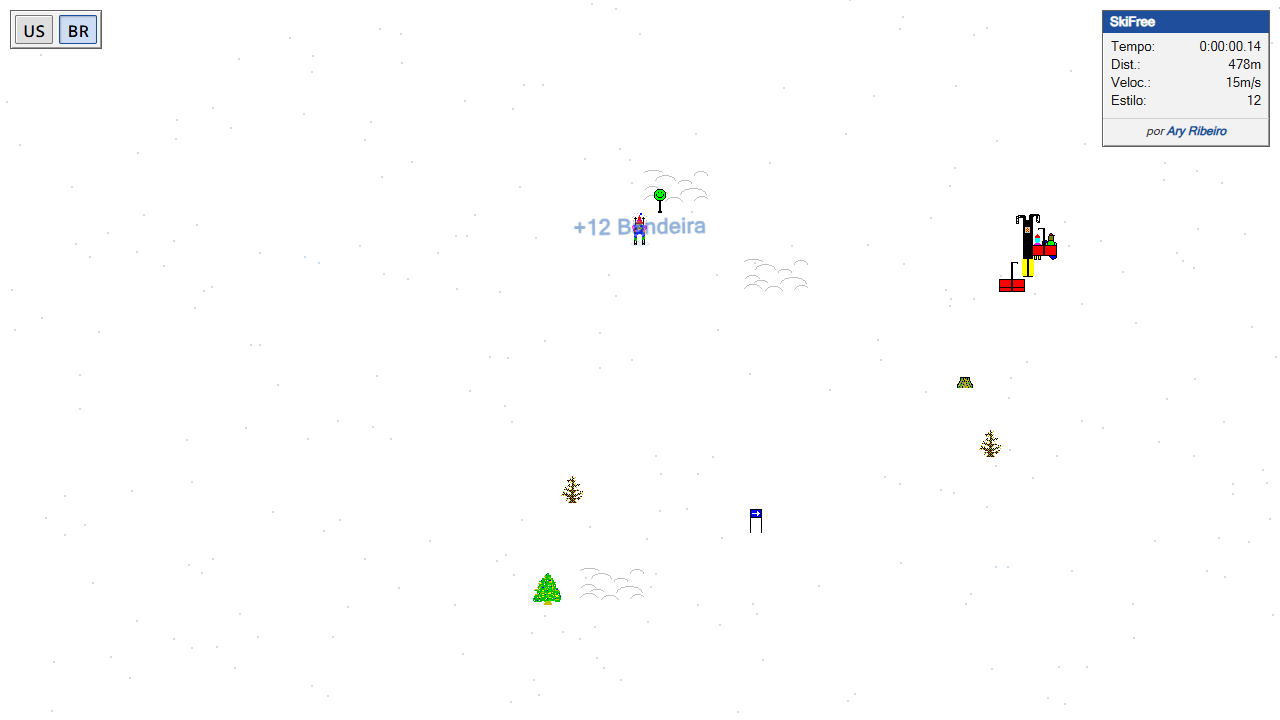
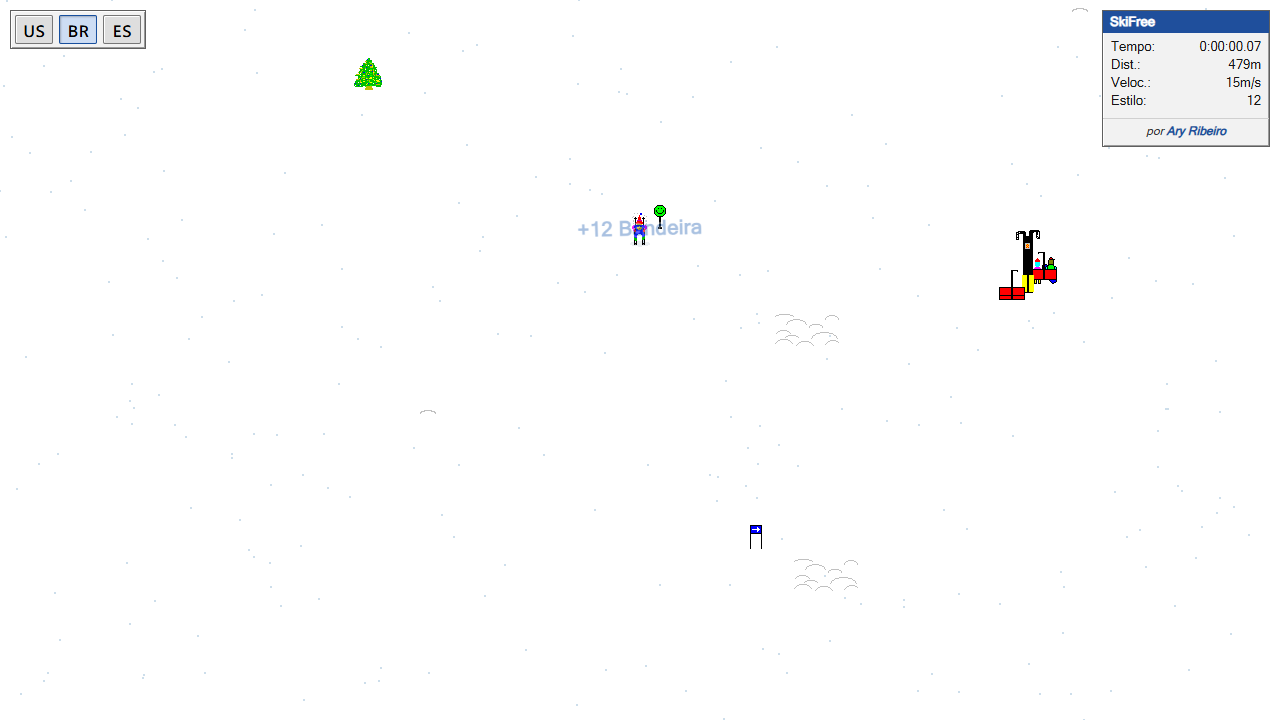
Add Spanish (es-ES): flag, translations, country/browser detection, sign text fit

diff --git a/src/main.js b/src/main.js
@@ -83,7 +83,11 @@ const RIVAL_KIND = "rival-player";
 const RIVAL_COUNT = 3;
 const LANGUAGE_STORAGE_KEY = "skifree-language";
 const DEFAULT_LANGUAGE = "en-US";
-const SUPPORTED_LANGUAGES = new Set(["pt-BR", "en-US"]);
+const SUPPORTED_LANGUAGES = new Set(["pt-BR", "en-US", "es-ES"]);
+const SPANISH_COUNTRIES = new Set([
+  "ES", "MX", "AR", "CO", "CL", "PE", "VE", "EC", "GT", "CU", "BO", "DO", "HN",
+  "PY", "SV", "NI", "CR", "PA", "UY", "GQ", "PR"
+]);
 
 const TRANSLATIONS = Object.freeze({
   "pt-BR": {
@@ -169,6 +173,48 @@ const TRANSLATIONS = Object.freeze({
       treeSlalom: ["TREE", "SLALOM"],
       freestyle: ["FREE", "STYLE"]
     }
+  },
+  "es-ES": {
+    languageSwitcherAria: "Seleccionar idioma",
+    hudAria: "Estado de SkiFree",
+    resultsAria: "Récords",
+    timeLabel: "Tiempo:",
+    distanceLabel: "Dist.:",
+    speedLabel: "Veloc.:",
+    styleLabel: "Estilo:",
+    paused: "Pausado",
+    records: "Récords",
+    resultHint: "Toca la pantalla o pulsa Enter para continuar",
+    loading: "Cargando",
+    loadFailed: "Error al cargar",
+    credit: "por",
+    style: "estilo",
+    flag: "Puerta",
+    points: "{value} estilo",
+    yourResult: "¡tu resultado!",
+    tryAgain: "¡inténtalo de nuevo!",
+    courseRace: "Carrera",
+    courseFreestyle: "Estilo libre",
+    courseTreeSlalom: "Eslalon entre árboles",
+    courseStarted: "Prueba iniciada: {mode}",
+    courseFinishedStyle: "Prueba completada — {mode}: {value} estilo",
+    courseFinishedTime: "Prueba completada — {mode}: {value}",
+    resultsTitle: "SkiFree - Resultados de {mode}",
+    yetiCaught: "El Yeti te atrapó",
+    yetiTitle: "SkiFree - El Yeti te atrapó",
+    pausedTitle: "Ski en pausa — pulsa F3 para continuar",
+    rivalNames: ["ZorroNieve", "Mika", "ByteHielo", "AsAlpino"],
+    signs: {
+      helpMouse: ["RATÓN/TOQUE", "MUEVE PARA", "GIRAR"],
+      helpKeys: ["A/D, FLECHAS", "O NUMPAD", "PARA GIRAR"],
+      startLeft: ["← SALIDA"],
+      startRight: ["SALIDA →"],
+      finishLeft: ["← META"],
+      finishRight: ["META →"],
+      race: ["CARRERA"],
+      treeSlalom: ["ESLALON", "ÁRBOLES"],
+      freestyle: ["ESTILO", "LIBRE"]
+    }
   }
 });
 
@@ -190,6 +236,20 @@ function storedLanguage() {
   }
 }
 
+function browserSuggestedLanguage() {
+  if (browserSuggestsBrazil()) return "pt-BR";
+  const languages = navigator.languages?.length ? navigator.languages : [navigator.language];
+  if (languages.some((language) => language?.toLowerCase().startsWith("es"))) return "es-ES";
+  return DEFAULT_LANGUAGE;
+}
+
+function languageForCountry(country) {
+  const code = country.toUpperCase();
+  if (code === "BR") return "pt-BR";
+  if (SPANISH_COUNTRIES.has(code)) return "es-ES";
+  return DEFAULT_LANGUAGE;
+}
+
 function browserSuggestsBrazil() {
   const languages = navigator.languages?.length ? navigator.languages : [navigator.language];
   if (languages.some((language) => language?.toLowerCase() === "pt-br")) return true;
@@ -207,7 +267,7 @@ async function detectInitialLanguage() {
   const selected = storedLanguage();
   if (selected) return selected;
   if (["localhost", "127.0.0.1", "::1"].includes(window.location.hostname)) {
-    return browserSuggestsBrazil() ? "pt-BR" : "en-US";
+    return browserSuggestedLanguage();
   }
 
   const controller = new AbortController();
@@ -219,14 +279,14 @@ async function detectInitialLanguage() {
     });
     if (response.ok && response.headers.get("content-type")?.includes("application/json")) {
       const { country } = await response.json();
-      if (country) return country.toUpperCase() === "BR" ? "pt-BR" : "en-US";
+      if (country) return languageForCountry(country);
     }
   } catch {
     // Local development has no edge country signal; browser hints are the fallback.
   } finally {
     window.clearTimeout(timeout);
   }
-  return browserSuggestsBrazil() ? "pt-BR" : "en-US";
+  return browserSuggestedLanguage();
 }
 
 const COURSE_LANES = Object.freeze({
@@ -2107,7 +2167,14 @@ class SkiFreeGame {
     context.lineWidth = 1;
     if (!isHelp) context.strokeRect(0.5, 0.5, width - 1, panelHeight - 1);
     context.fillStyle = "#174f9e";
-    context.font = `bold ${isHelp ? 7 : lines.length > 1 ? 7 : 8}px Arial`;
+    const baseFontSize = isHelp ? 7 : lines.length > 1 ? 7 : 8;
+    const maxLineWidth = width - (isHelp ? 2 : 6);
+    let fontSize = baseFontSize;
+    context.font = `bold ${fontSize}px Arial`;
+    while (fontSize > 5 && lines.some((line) => context.measureText(line).width > maxLineWidth)) {
+      fontSize -= 0.5;
+      context.font = `bold ${fontSize}px Arial`;
+    }
     context.textAlign = "center";
     context.textBaseline = "middle";
     const lineHeight = isHelp ? 9 : 8;

diff --git a/index.html b/index.html
@@ -18,6 +18,9 @@
         <button type="button" data-language="pt-BR" aria-label="Português (Brasil)" title="Português (Brasil)">
           <span aria-hidden="true">🇧🇷</span>
         </button>
+        <button type="button" data-language="es-ES" aria-label="Español (España)" title="Español (España)">
+          <span aria-hidden="true">🇪🇸</span>
+        </button>
       </nav>
       <section id="hud" aria-label="Status do SkiFree">
         <div class="hud-title">SkiFree</div>

diff --git a/README.md b/README.md
@@ -8,7 +8,7 @@ geração de objetos, os controles e os comportamentos de colisão recuperados d
 `SKI.EXE`. A renderização continua ortográfica e fiel ao pixel, com o Three.js
 cuidando da cena.
 
-Bilíngue (português do Brasil e inglês): o idioma inicial é sugerido pelo país
+Trilíngue (português do Brasil, inglês e espanhol): o idioma inicial é sugerido pelo país
 do visitante e pode ser trocado a qualquer momento pelas bandeiras no canto
 superior esquerdo.
 
